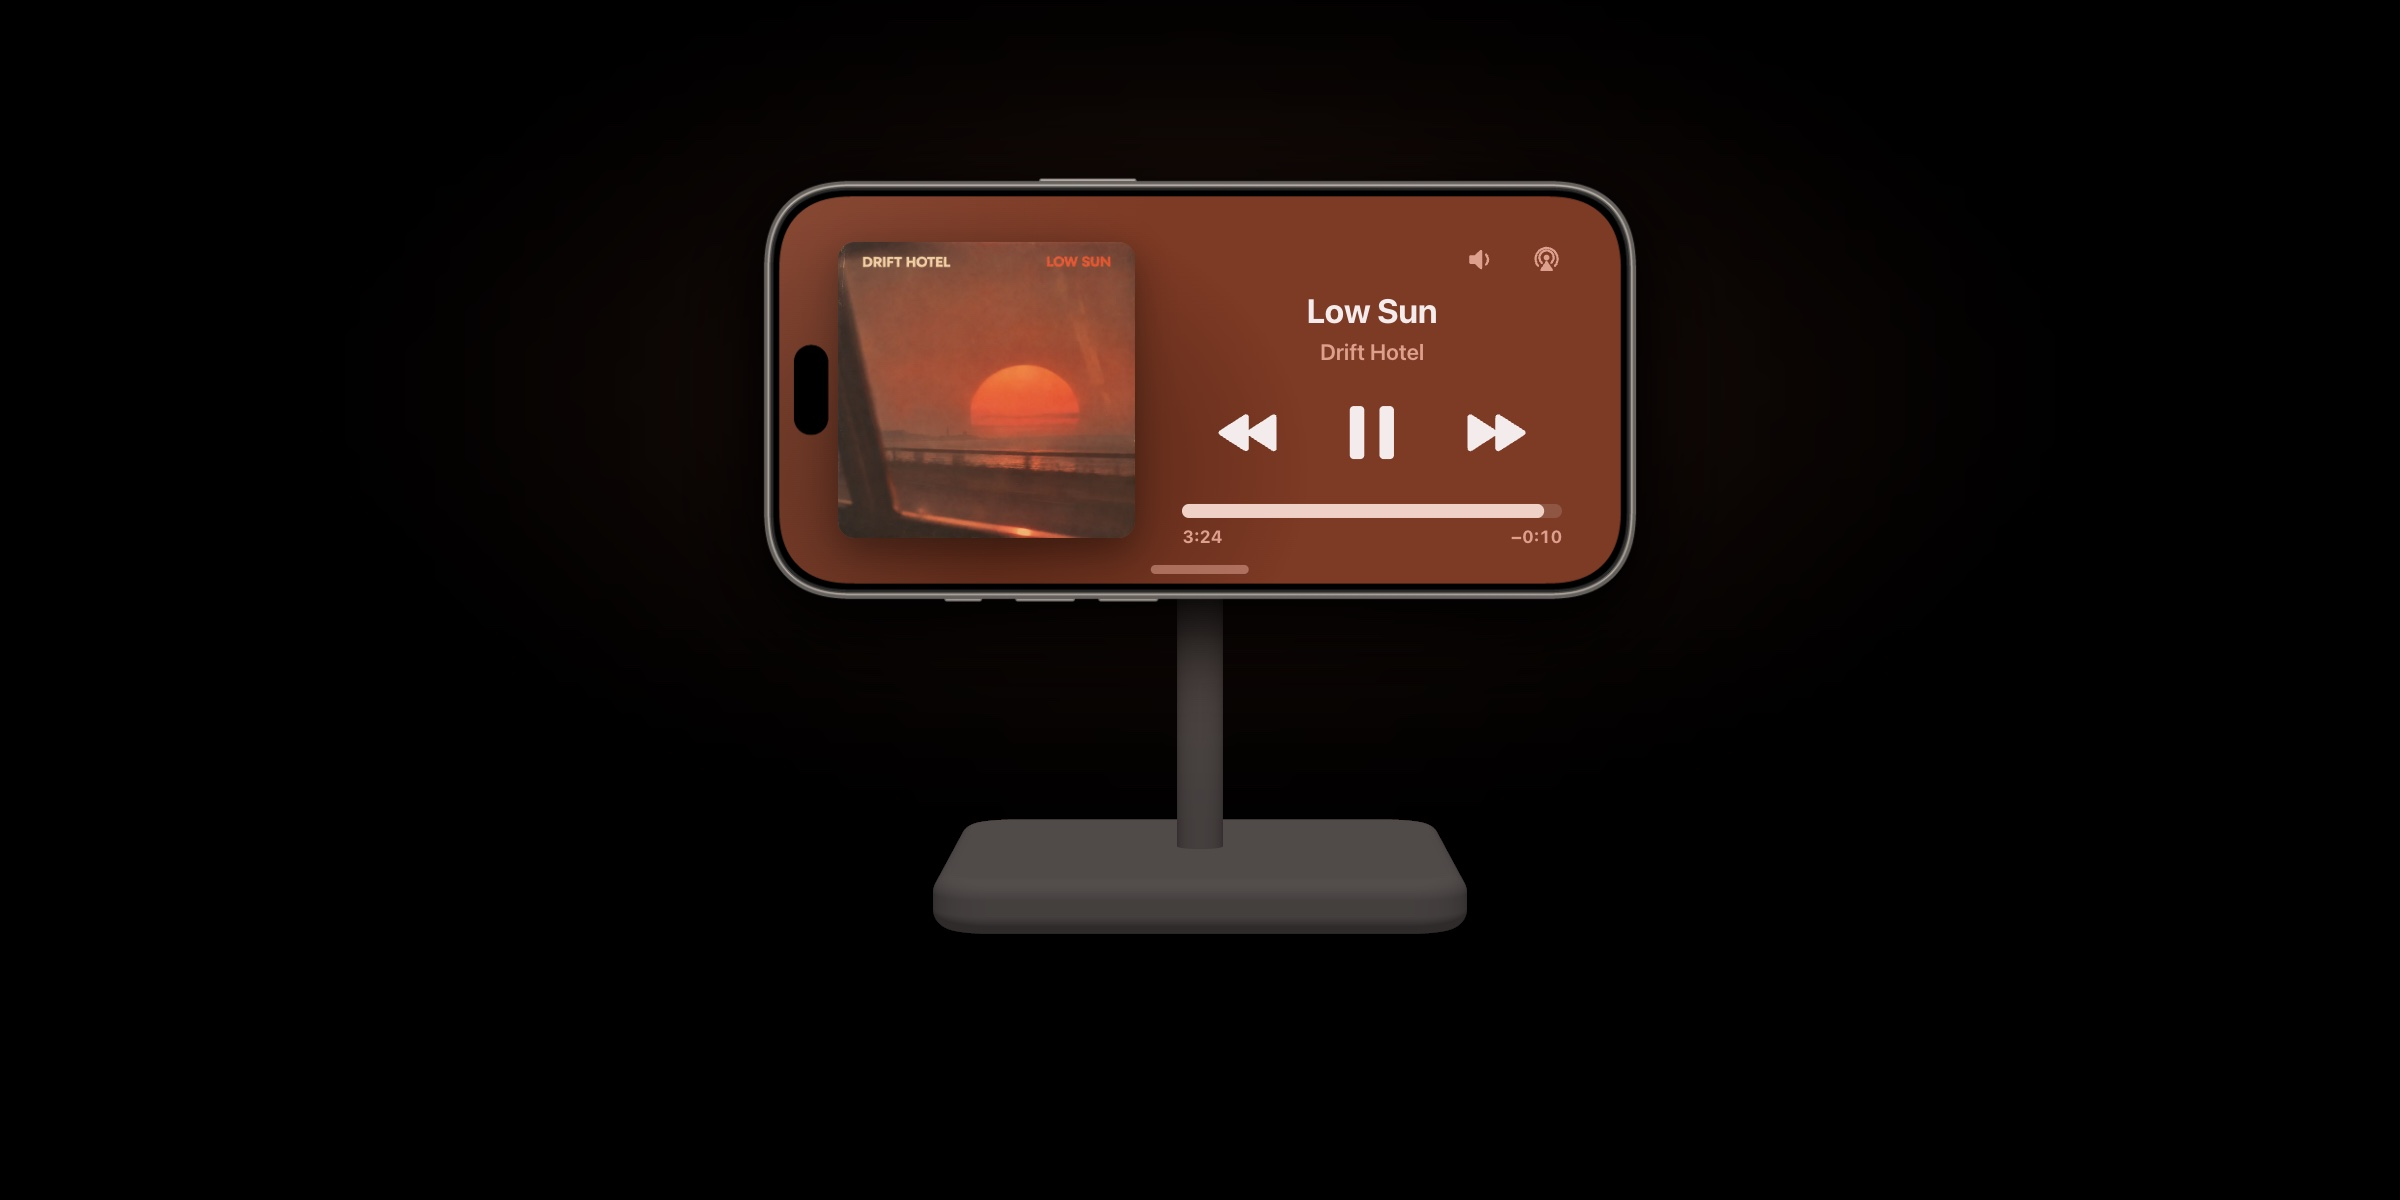
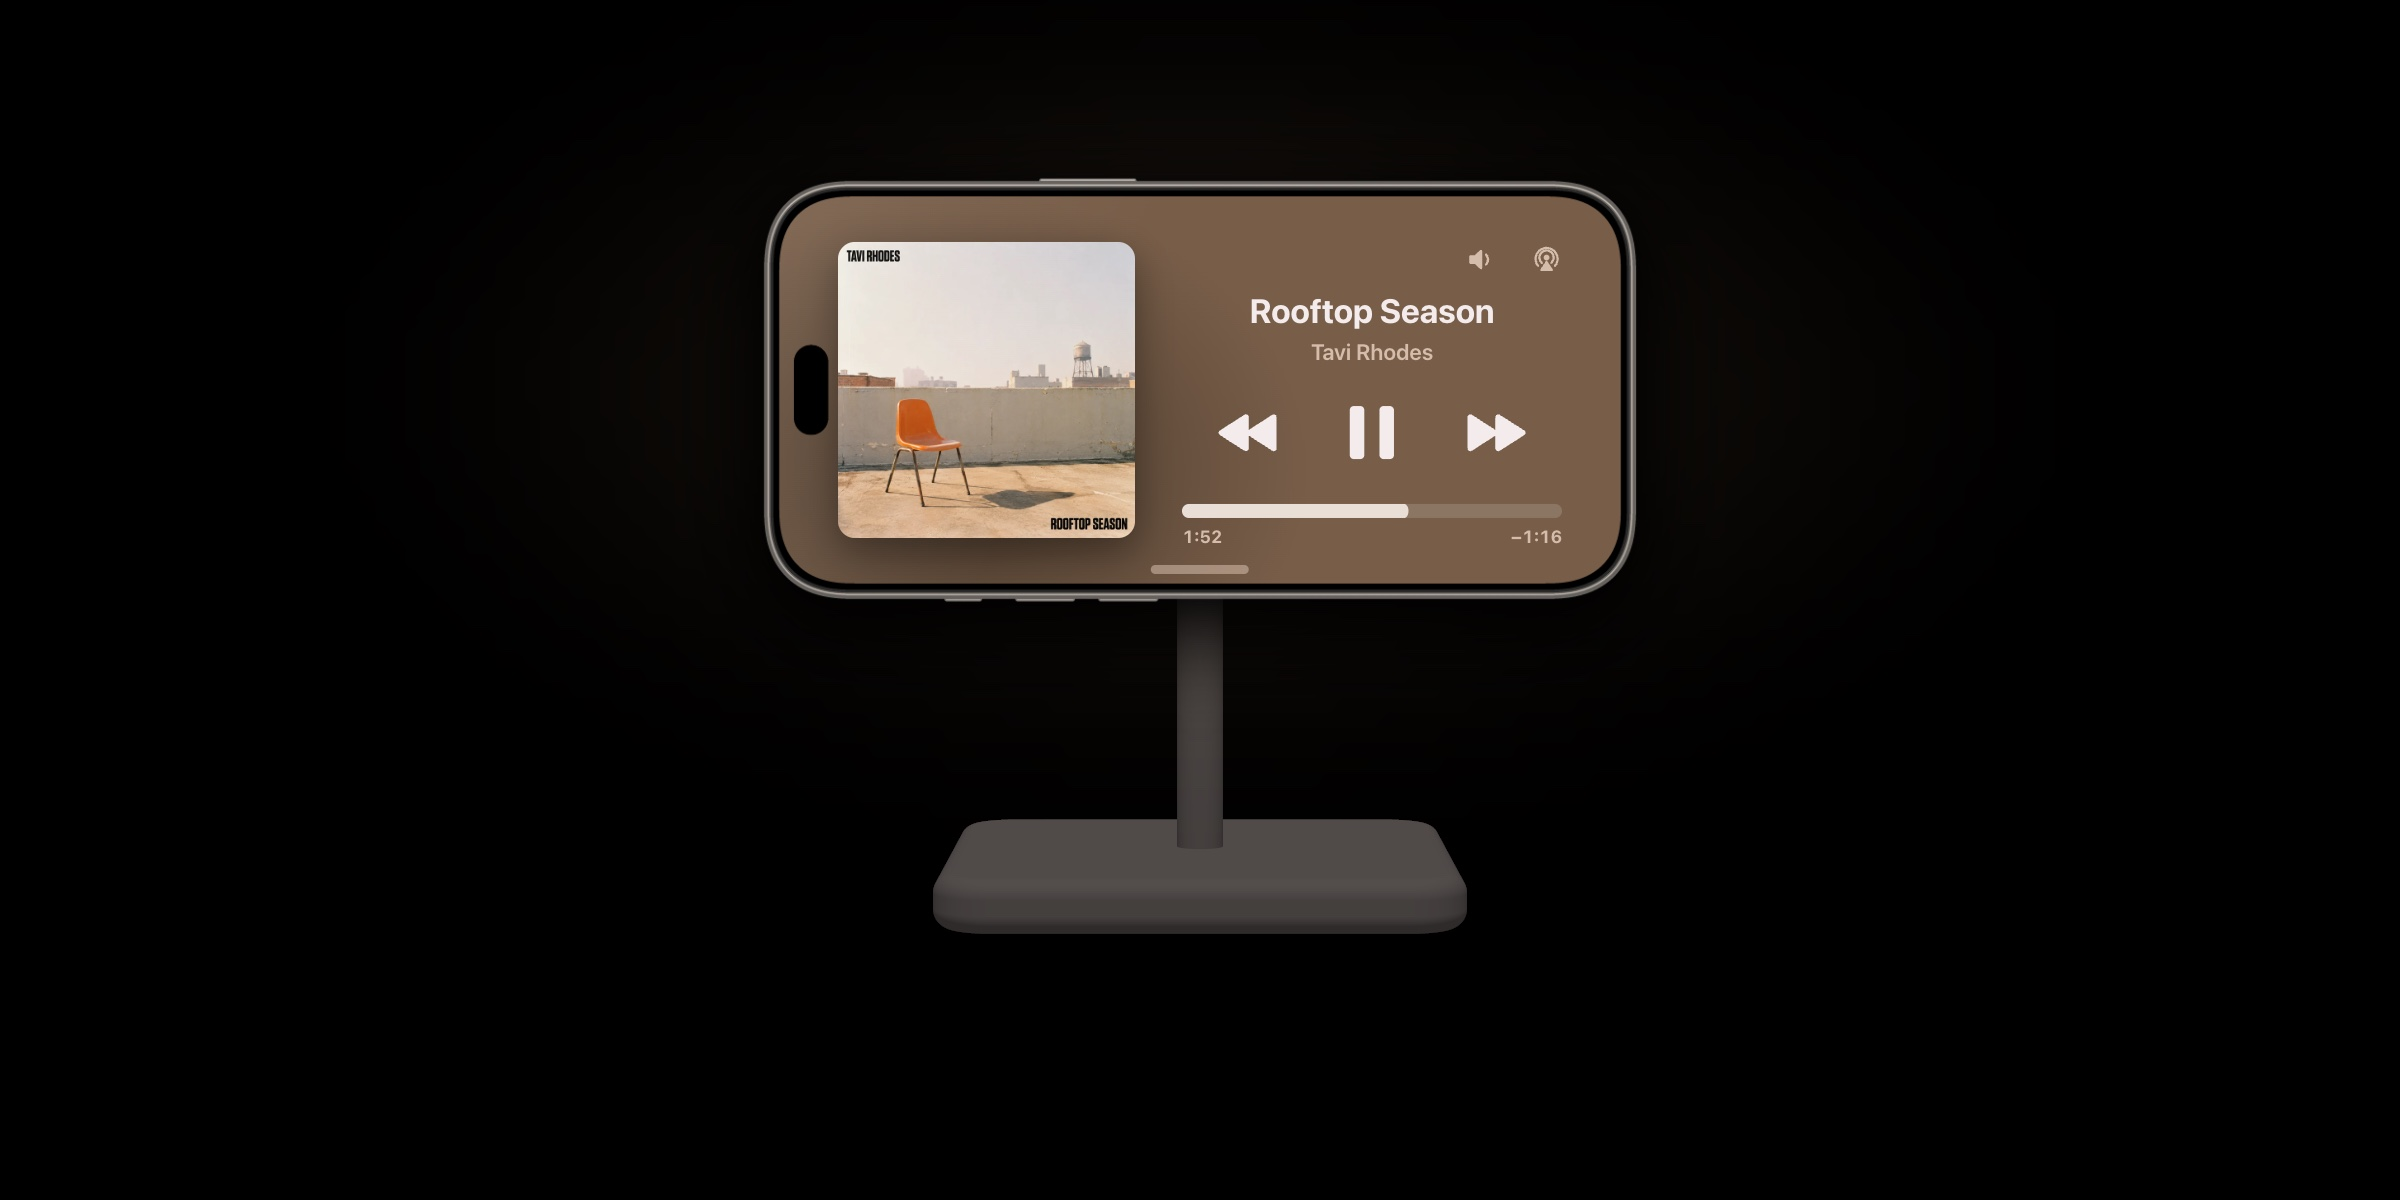
Home: the Second Chair slide on Rooftop Season, the card on Low Sun
And the slideshow picks whichever slide image is nearer the card's shape, so
near-square cards get the 4:3 version instead of a cropped 2:1 one.

Changed region(s): [[0.3125, 0.1542, 0.6875, 0.4933]]

diff --git a/second-chair/_docs/card.html b/second-chair/_docs/card.html
@@ -1,15 +1,15 @@
 <!doctype html>
 <html lang="en-GB"><head><meta charset="utf-8">
 <title>Second Chair card</title>
-<!-- Renders assets/second-chair-card.jpg for the Made with Merritt home page (1200×900), on Rooftop Season, so the home page shows a second record beside the slideshow's Low Sun:
+<!-- Renders assets/second-chair-card.jpg for the Made with Merritt home page (1200×900), on Low Sun, beside the slideshow's Rooftop Season, so the home page shows both:
      "/Applications/Google Chrome.app/Contents/MacOS/Google Chrome" --headless --hide-scrollbars --force-device-scale-factor=1 \
        --window-size=1200,900 --screenshot=card.png http://localhost:4174/second-chair/_docs/card.html
      then: sips -s format jpeg -s formatOptions 88 card.png --out ../../assets/second-chair-card.jpg -->
 <link rel="stylesheet" href="../assets/css/base.css">
 <link rel="stylesheet" href="../assets/css/home.css">
 <style>
-  html, body { margin: 0; width: 1200px; height: 900px; overflow: hidden; background: #dccbbc; }
-  .card { position: relative; isolation: isolate; background: #dccbbc; width: 1200px; height: 900px; display: grid; place-items: center; --stage: #dccbbc; --wall-a: #6b4f38; --wall-b: #b59071; }
+  html, body { margin: 0; width: 1200px; height: 900px; overflow: hidden; background: #b35638; }
+  .card { position: relative; isolation: isolate; background: #b35638; width: 1200px; height: 900px; display: grid; place-items: center; --stage: #b35638; --wall-a: #472316; --wall-b: #bc5b3b; }
   .card .hero-standby { position: relative; right: auto; bottom: auto; width: 900px; margin-top: 30px; }
 </style>
 </head><body>
@@ -39,16 +39,16 @@
             <!-- StandBy's Now Playing, laid out as iOS draws it: artwork left; title, artist, controls and scrubber centred on the right. -->
             <div class="standby-ui">
               <div class="wall" aria-hidden="true"></div>
-              <div class="sb-art" data-swap="spin"><img class="art" data-bind="art" src="../assets/art/rooftop-season.webp" alt="" width="300" height="300"></div>
+              <div class="sb-art" data-swap="spin"><img class="art" data-bind="art" src="../assets/art/low-sun.webp" alt="" width="300" height="300"></div>
               <div class="sb-side">
                 <div class="sb-top" aria-hidden="true"><svg><use href="#i-vol-mid"/></svg><svg><use href="#i-airplay-audio"/></svg></div>
-                <div class="sb-meta"><b class="sb-title" data-bind="title">Rooftop Season</b><span class="sb-artist" data-bind="artist">Tavi Rhodes</span></div>
+                <div class="sb-meta"><b class="sb-title" data-bind="title">Low Sun</b><span class="sb-artist" data-bind="artist">Drift Hotel</span></div>
                 <div class="sb-controls">
                   <button type="button" class="ios-btn" data-cmd="previous" aria-label="Previous, from the iPhone"><svg class="glyph-fill"><use href="#i-prev"/></svg></button>
                   <button type="button" class="ios-btn pp" data-cmd="toggle" data-where="from the iPhone" aria-label="Pause from the iPhone"><svg class="i-pause glyph-fill"><use href="#i-pause"/></svg><svg class="i-play glyph-fill"><use href="#i-play"/></svg></button>
                   <button type="button" class="ios-btn" data-cmd="next" aria-label="Next, from the iPhone"><svg class="glyph-fill"><use href="#i-next"/></svg></button>
                 </div>
-                <div class="sb-scrub" aria-hidden="true"><div class="ios-bar"><i data-bind="progress" style="--p:.596"></i></div><div class="sb-times"><span data-bind="elapsed">1:52</span><span data-bind="remaining">−1:16</span></div></div>
+                <div class="sb-scrub" aria-hidden="true"><div class="ios-bar"><i data-bind="progress" style="--p:.953"></i></div><div class="sb-times"><span data-bind="elapsed">3:24</span><span data-bind="remaining">−0:10</span></div></div>
               </div>
               <span class="sb-home" aria-hidden="true"></span>
             </div>

diff --git a/second-chair/_docs/slide.html b/second-chair/_docs/slide.html
@@ -13,9 +13,9 @@
      slideshow's crops (wide on desktop, tall on phones) both keep it, above the title at the bottom left. */
   html, body { margin: 0; width: 2000px; height: 1500px; overflow: hidden; background: #000; }
   .hero { position: relative; isolation: isolate; width: 2000px; height: 1500px; background: #000; overflow: hidden;
-          --stage: #331810; --wall-a: #472316; --wall-b: #bc5b3b; }
+          --stage: #3f3a36; --wall-a: #6b4f38; --wall-b: #b59071; }   /* Rooftop Season: its stage at 28.6% for the night, its walls */
   .glow { position: absolute; left: 50%; top: 380px; width: 1300px; height: 640px; transform: translate(-50%, -50%);
-          background: radial-gradient(closest-side, rgba(184, 92, 62, .32), rgba(130, 62, 40, .12) 55%, transparent);
+          background: radial-gradient(closest-side, rgba(181, 144, 113, .30), rgba(107, 79, 56, .12) 55%, transparent);
           filter: blur(60px); z-index: -2; }
   /* The charging stand: rendered by devices/stand.py on black, added with screen so black adds nothing. */
   .stand { position: absolute; inset: 0; background: url("devices/stand-mobile.png") 0 0 / 100% 100% no-repeat; mix-blend-mode: screen; opacity: .7; z-index: -1; }
@@ -55,16 +55,16 @@
             <!-- StandBy's Now Playing, laid out as iOS draws it: artwork left; title, artist, controls and scrubber centred on the right. -->
             <div class="standby-ui">
               <div class="wall" aria-hidden="true"></div>
-              <div class="sb-art" data-swap="spin"><img class="art" data-bind="art" src="../assets/art/low-sun.webp" alt="" width="300" height="300"></div>
+              <div class="sb-art" data-swap="spin"><img class="art" data-bind="art" src="../assets/art/rooftop-season.webp" alt="" width="300" height="300"></div>
               <div class="sb-side">
                 <div class="sb-top" aria-hidden="true"><svg><use href="#i-vol-mid"/></svg><svg><use href="#i-airplay-audio"/></svg></div>
-                <div class="sb-meta"><b class="sb-title" data-bind="title">Low Sun</b><span class="sb-artist" data-bind="artist">Drift Hotel</span></div>
+                <div class="sb-meta"><b class="sb-title" data-bind="title">Rooftop Season</b><span class="sb-artist" data-bind="artist">Tavi Rhodes</span></div>
                 <div class="sb-controls">
                   <button type="button" class="ios-btn" data-cmd="previous" aria-label="Previous, from the iPhone"><svg class="glyph-fill"><use href="#i-prev"/></svg></button>
                   <button type="button" class="ios-btn pp" data-cmd="toggle" data-where="from the iPhone" aria-label="Pause from the iPhone"><svg class="i-pause glyph-fill"><use href="#i-pause"/></svg><svg class="i-play glyph-fill"><use href="#i-play"/></svg></button>
                   <button type="button" class="ios-btn" data-cmd="next" aria-label="Next, from the iPhone"><svg class="glyph-fill"><use href="#i-next"/></svg></button>
                 </div>
-                <div class="sb-scrub" aria-hidden="true"><div class="ios-bar"><i data-bind="progress" style="--p:.953"></i></div><div class="sb-times"><span data-bind="elapsed">3:24</span><span data-bind="remaining">−0:10</span></div></div>
+                <div class="sb-scrub" aria-hidden="true"><div class="ios-bar"><i data-bind="progress" style="--p:.596"></i></div><div class="sb-times"><span data-bind="elapsed">1:52</span><span data-bind="remaining">−1:16</span></div></div>
               </div>
               <span class="sb-home" aria-hidden="true"></span>
             </div>

diff --git a/index.html b/index.html
@@ -183,7 +183,8 @@
       let idx = 0;
 
       // A slide can have a taller version for narrow cards (phones), where the wide one would be cropped hard.
-      const imageFor = (sl) => (sl.tall && card.offsetWidth < card.offsetHeight * 1.3) ? sl.tall : sl.image;
+      // Whichever is nearer the card's shape: the 4:3 tall version or the 2:1 wide one (they meet at about 1.63:1).
+      const imageFor = (sl) => (sl.tall && card.offsetWidth < card.offsetHeight * 1.63) ? sl.tall : sl.image;
       layerA.style.backgroundImage = `url('${imageFor(slides[0])}')`;
       layerA.style.opacity = '1';
       layerB.style.opacity = '0';

diff --git a/second-chair/_docs/README.md b/second-chair/_docs/README.md
@@ -102,7 +102,7 @@ cwebp -q 82 -m 6 -sharp_yuv -resize 720 720 cover.png -o assets/art/<id>.webp
 cwebp -q 80 -m 6 -sharp_yuv -resize 144 144 cover.png -o assets/art/<id>-sm.webp
 ```
 
-To add or change a record, edit `RECORDS` at the top of `assets/js/session.js`: `stage` is the colour the hero takes while it plays, `ink` is white or near-black to suit it (check 4.5:1 for small text), and `wall` is the two colours behind StandBy and the Lock Screen. The file name in `art/` is the `id`. The colours aren't chosen by eye: they're what `coloursFrom()` in `home.js` reads from the cover, the same reading a song picked in "Try it with your own song" gets, written out so the first paint is right and every browser agrees. For a new cover, run it on the 720 px file in Chrome on the preview and paste the result. Low Sun's set also appears in `base.css` (the stage before the script runs), the `theme-color` in `index.html`, `og.png` (`_docs/og.html`) and the Made with Merritt slides (`_docs/slide.html`); if Low Sun's cover changes, update and re-render those. The Made with Merritt card (`_docs/card.html`) shows Rooftop Season.
+To add or change a record, edit `RECORDS` at the top of `assets/js/session.js`: `stage` is the colour the hero takes while it plays, `ink` is white or near-black to suit it (check 4.5:1 for small text), and `wall` is the two colours behind StandBy and the Lock Screen. The file name in `art/` is the `id`. The colours aren't chosen by eye: they're what `coloursFrom()` in `home.js` reads from the cover, the same reading a song picked in "Try it with your own song" gets, written out so the first paint is right and every browser agrees. For a new cover, run it on the 720 px file in Chrome on the preview and paste the result. Low Sun's set also appears in `base.css` (the stage before the script runs), the `theme-color` in `index.html`, `og.png` (`_docs/og.html`) and the Made with Merritt card (`_docs/card.html`); if Low Sun's cover changes, update and re-render those. The Made with Merritt slides (`_docs/slide.html`) show Rooftop Season.
 
 **Sound.** Each made-up record can have its own track at `assets/audio/<id>.mp3` (original music made for this site, about a minute, levelled, looping). The hero's Sound switch appears only once `assets/audio/low-sun.mp3` exists; a record without a file is silent. Never use the Artlist tracks from the app prototype here: their licence forbids standalone online playback.
 
